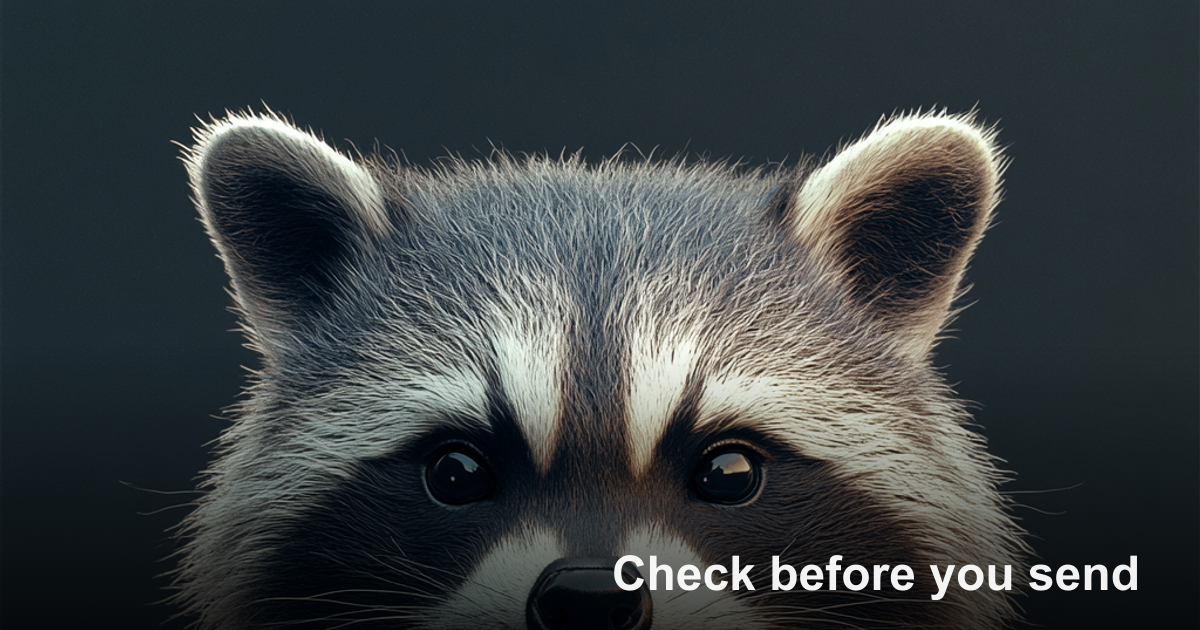
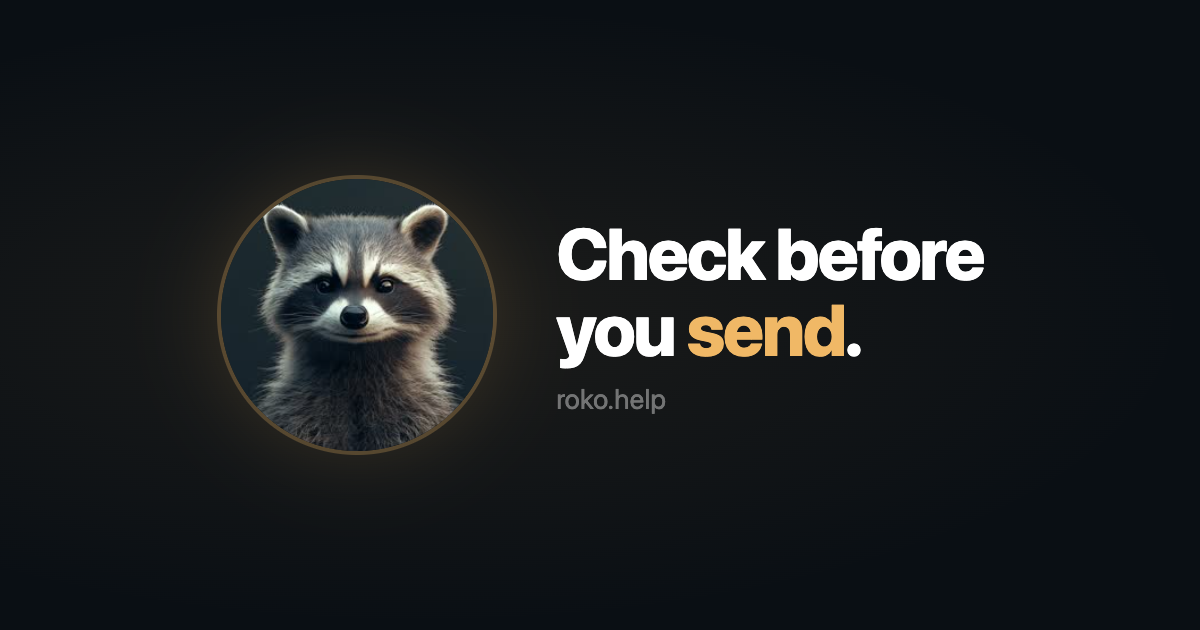
Human-friendly copy, quest as standalone page, OG image, check counter
- Rewrite all copy for regular people (not crypto jargon) in EN/RU/ES
- Quest button links to quest.html instead of opening modal
- Quest: explain real scam patterns on start, add like + submit story on final
- OG image: raccoon + "Check before you send." + roko.help
- Add checks-done counter (localStorage)
- Simplify meta descriptions

diff --git a/public/index.html b/public/index.html
@@ -3,8 +3,8 @@
 <head>
   <meta charset="UTF-8">
   <meta name="viewport" content="width=device-width, initial-scale=1.0">
-  <title>Roko – Crypto Exchange Trust Index | Check before you send</title>
-  <meta name="description" content="Free crypto exchange safety checker. Paste any link, wallet, or @handle – get a risk score in seconds. Scam database, OFAC sanctions, phishing detection, AI site analysis. Open source.">
+  <title>Roko – Check before you send</title>
+  <meta name="description" content="Got a sketchy crypto link? Paste it here – Roko tells you if it's safe or a scam. Checks sites, wallets, Telegram profiles. Free. 3 seconds.">
   <meta name="keywords" content="crypto exchange checker, exchanger safety, crypto scam check, OFAC sanctions check, wallet verification, blockchain trust score, P2P safety, OTC exchange review, crypto fraud prevention">
   <meta name="author" content="Roko">
   <meta name="robots" content="index, follow">
@@ -13,8 +13,8 @@
   <!-- Open Graph -->
   <meta property="og:type" content="website">
   <meta property="og:url" content="https://roko.help/">
-  <meta property="og:title" content="Roko – Is that exchanger safe?">
-  <meta property="og:description" content="Paste any link or wallet – know if it's safe in seconds. Scam database, sanctions, phishing detection, AI analysis. Free & open source.">
+  <meta property="og:title" content="Roko – Check before you send">
+  <meta property="og:description" content="Got a sketchy crypto link? Paste it – Roko tells you if it's safe. Free. 3 seconds.">
   <meta property="og:image" content="https://roko.help/og.png?v=2">
   <meta property="og:image:width" content="1200">
   <meta property="og:image:height" content="630">
@@ -380,13 +380,13 @@
         <span data-i18n="cta_bot_d">Full check – site content AI scan, Telegram profiles, token permissions</span>
       </span>
     </a>
-    <button class="cta-card cta-quest" onclick="openModal('quest')">
+    <a class="cta-card cta-quest" href="quest.html" style="text-decoration:none">
       <span class="cta-icon">🎮</span>
       <span class="cta-text">
         <strong data-i18n="bl_quest">Scam quest</strong>
         <span data-i18n="cta_quest_d">Can you spot a scam? 7 real scenarios – test yourself</span>
       </span>
-    </button>
+    </a>
   </div>
 
   <!-- SECONDARY LINKS -->
@@ -403,6 +403,9 @@
     <a class="like-link" href="https://github.com/roko-help/roko" target="_blank" rel="noopener"><img src="https://img.shields.io/github/stars/roko-help/roko?style=flat&logo=github&label=Stars&color=333&labelColor=1a1a1a&logoColor=fff" alt="GitHub stars" style="height:20px;vertical-align:middle" onerror="this.outerHTML='★ GitHub'"></a>
     <a class="like-link" href="https://t.me/roko_help" target="_blank" rel="noopener">📢 Telegram</a>
   </div>
+
+  <!-- CHECK COUNTER -->
+  <p class="home-counter" id="checkCounter" style="font-size:.78rem;color:rgba(255,255,255,.25);margin-top:.8rem;display:none"></p>
 
   <!-- COPYRIGHT -->
   <p class="home-copy" id="homeCopy"></p>
@@ -493,19 +496,19 @@ var curLang='en';
 var T={
   en:{
     title:'Is that <span class="rot-word" id="rotWord">exchanger</span> <em>safe</em>?',
-    sub:'Paste a link or wallet address. Roko checks scam databases, sanctions lists, and site content – and tells you if it\'s safe. Free. In seconds.',
+    sub:'Got a sketchy link? Paste it here. Roko will tell you if it\'s safe or a scam. Free. 3 seconds.',
     p2p_cta:'Meeting a dealer in person?',
     ph:'website, @telegram_name, or wallet...',btn:'Check',try_label:'try:',
     bl_onb:'Got paid in crypto?',bl_tut:'Crypto 101',bl_guide:'Safety rules',bl_quest:'Scam quest',bl_feat:'How it works',bl_reg:'Rules & laws',bl_about:'About',bl_safety:'Safety tips',bl_learn:'Learn',
-    cta_bot_d:'Full check – site content AI scan, Telegram profiles, token permissions',
+    cta_bot_d:'Deeper check – scans what\'s actually on the site, checks Telegram profiles',
     cta_quest_d:'Can you spot a scam? 7 real scenarios – test yourself',
     copy:'Free, open-source service by <a href="https://farbey.xyz/" style="color:rgba(255,255,255,.35)">Peter</a> & <a href="https://romanselivan.com/" style="color:rgba(255,255,255,.35)">Roman</a> – for friends, and for you.',
     back:'← Back',another:'Check another',bot:'Full check in bot',
     ft_t:'What Roko digs up',
-    f1t:'Fake sites',f1d:'Domain age, WHOIS, SSL, brand mismatches',
-    f2t:'Sanctioned wallets',f2d:'OFAC, Tornado Cash, seized addresses',
-    f3t:'Token drain',f3d:'Dangerous permissions that let sites drain your wallet',
-    f4t:'Fresh wallets',f4d:'Balance, age, transaction patterns',
+    f1t:'Fake sites',f1d:'How old is the site? Is it copying a known brand?',
+    f2t:'Blacklisted wallets',f2d:'International sanctions, seized by police, known scammers',
+    f3t:'Wallet drain',f3d:'Sites that trick you into giving them access to your money',
+    f4t:'Suspicious wallets',f4d:'Empty wallet? Just created? No history? Red flag.',
     f5t:'Cash scams',f5d:'Shady dealers, fake exchanges, step-by-step safety',
     f6t:'24/7 monitoring',f6d:'Watchlist with instant alerts if anything changes',
     guide_t:'Safety rules',
@@ -519,7 +522,7 @@ var T={
     quest_t:'Scam Quest',
     disclaimer:'Roko provides information to help you make decisions but does not guarantee the safety of any transaction. Web check is basic – use @RokoHelpBot for a full scan.',
     report:'🚨 Report scam',
-    web_basic:'Want deeper analysis? @RokoHelpBot scans site content with AI and checks Telegram profiles.',
+    web_basic:'Want a deeper look? @RokoHelpBot reads the actual site and checks Telegram profiles too.',
     handle_g1:'Meet publicly – café, shopping mall',handle_g2:'Test with a small amount first',
     ck_low_act:'Very low activity',ck_txs:'transactions',ck_out_txs:'outgoing transactions',ck_transactions:'transactions',
     ck_days_old:'days old',ck_new_acct:'Account very new',ck_not_found:'Address not found – may be unused',
@@ -534,19 +537,19 @@ var T={
   },
   ru:{
     title:'Этот <span class="rot-word" id="rotWord">обменник</span> <em>надёжный</em>?',
-    sub:'Вставь ссылку или адрес кошелька – Roko проверит по базам скамеров, санкционным спискам и содержимому сайта. Бесплатно. За секунды.',
+    sub:'Скинули подозрительную ссылку? Вставь сюда. Roko скажет – безопасно или скам. Бесплатно. 3 секунды.',
     p2p_cta:'Встречаешься с менялой лично?',
     ph:'сайт, @telegram_name или кошелёк...',btn:'Проверить',try_label:'попробуй:',
     bl_onb:'Получил крипту?',bl_tut:'Крипта 101',bl_guide:'Правила безопасности',bl_quest:'Квест',bl_feat:'Как работает',bl_reg:'Правила и законы',bl_about:'О проекте',bl_safety:'Безопасность',bl_learn:'Обучение',
-    cta_bot_d:'Полная проверка – AI-скан содержимого сайта, Telegram-профили, разрешения токенов',
+    cta_bot_d:'Глубже – сканирует содержимое сайта, проверяет Telegram-профили',
     cta_quest_d:'Распознаешь скам? 7 реальных сценариев – проверь себя',
     copy:'Бесплатный open-source сервис от <a href="https://farbey.xyz/" style="color:rgba(255,255,255,.35)">Питера</a> и <a href="https://romanselivan.com/" style="color:rgba(255,255,255,.35)">Романа</a> – для друзей и для тебя.',
     back:'← Назад',another:'Проверить ещё',bot:'Полная проверка в боте',
     ft_t:'Что находит Roko',
-    f1t:'Фейковые сайты',f1d:'Возраст домена, WHOIS, SSL, бренд',
-    f2t:'Санкционные кошельки',f2d:'OFAC, Tornado Cash, арестованные адреса',
-    f3t:'Слив через разрешения',f3d:'Опасные разрешения, которые позволяют сайту опустошить кошелёк',
-    f4t:'Свежие кошельки',f4d:'Баланс, возраст, паттерны транзакций',
+    f1t:'Фейковые сайты',f1d:'Сколько сайту лет? Не копирует ли он известный бренд?',
+    f2t:'Чёрные списки',f2d:'Международные санкции, арестованные полицией, известные мошенники',
+    f3t:'Слив кошелька',f3d:'Сайты, которые обманом получают доступ к твоим деньгам',
+    f4t:'Подозрительные кошельки',f4d:'Пустой? Только создан? Нет истории? Красный флаг.',
     f5t:'Скам при обмене на кэш',f5d:'Мутные менялы, фейковые обменники, пошаговая безопасность',
     f6t:'Мониторинг 24/7',f6d:'Следим и предупреждаем, если что-то изменится',
     guide_t:'Правила безопасности',
@@ -560,7 +563,7 @@ var T={
     quest_t:'Квест: тебя пытаются обмануть',
     disclaimer:'Roko предоставляет информацию для принятия решений, но не гарантирует безопасность сделки. Веб-проверка базовая – для полной используйте @RokoHelpBot.',
     report:'🚨 Сообщить о скаме',
-    web_basic:'Хочешь глубже? @RokoHelpBot сканирует содержимое сайта через AI и проверяет Telegram-профили.',
+    web_basic:'Хочешь глубже? @RokoHelpBot читает содержимое сайта и проверяет Telegram-профили.',
     handle_g1:'Встречайся в людном месте – кафе, ТЦ',handle_g2:'Сначала проверь на маленькой сумме',
     ck_low_act:'Очень низкая активность',ck_txs:'транзакций',ck_out_txs:'исходящих транзакций',ck_transactions:'транзакций',
     ck_days_old:'дней',ck_new_acct:'Аккаунт очень новый',ck_not_found:'Адрес не найден – возможно не использовался',
@@ -575,19 +578,19 @@ var T={
   },
   es:{
     title:'¿Es <em>seguro</em> ese <span class="rot-word" id="rotWord">exchanger</span>?',
-    sub:'Pega un enlace o dirección de wallet. Roko verifica bases de estafas, listas de sanciones y contenido del sitio. Gratis. En segundos.',
+    sub:'¿Te enviaron un enlace sospechoso? Pégalo aquí. Roko te dice si es seguro o una estafa. Gratis. 3 segundos.',
     p2p_cta:'¿Vas a reunirte con un dealer?',
     ph:'sitio web, @telegram_name o wallet...',btn:'Verificar',try_label:'prueba:',
     bl_onb:'¿Te pagaron en crypto?',bl_tut:'Cripto 101',bl_guide:'Reglas de seguridad',bl_quest:'Quest',bl_feat:'Cómo funciona',bl_reg:'Reglas y leyes',bl_about:'Sobre nosotros',bl_safety:'Seguridad',bl_learn:'Aprende',
-    cta_bot_d:'Verificación completa – escaneo AI del sitio, perfiles Telegram, permisos de tokens',
+    cta_bot_d:'Más profundo – escanea el contenido real del sitio, verifica perfiles de Telegram',
     cta_quest_d:'¿Puedes detectar una estafa? 7 escenarios reales – ponte a prueba',
     copy:'Servicio gratuito y open-source de <a href="https://farbey.xyz/" style="color:rgba(255,255,255,.35)">Peter</a> y <a href="https://romanselivan.com/" style="color:rgba(255,255,255,.35)">Roman</a> – para amigos, y para ti.',
     back:'← Atrás',another:'Verificar otro',bot:'Verificación completa en bot',
     ft_t:'Qué encuentra Roko',
-    f1t:'Sitios falsos',f1d:'Antigüedad, WHOIS, SSL, marca',
-    f2t:'Wallets sancionadas',f2d:'OFAC, Tornado Cash, direcciones incautadas',
-    f3t:'Robo por permisos',f3d:'Permisos peligrosos que permiten vaciar tu wallet',
-    f4t:'Wallets nuevas',f4d:'Balance, antigüedad, patrones',
+    f1t:'Sitios falsos',f1d:'¿Cuántos años tiene? ¿Está copiando una marca conocida?',
+    f2t:'Listas negras',f2d:'Sanciones internacionales, incautados por la policía, estafadores conocidos',
+    f3t:'Robo de wallet',f3d:'Sitios que te engañan para acceder a tu dinero',
+    f4t:'Wallets sospechosas',f4d:'¿Vacía? ¿Recién creada? ¿Sin historial? Bandera roja.',
     f5t:'Estafas con efectivo',f5d:'Dealers turbios, exchanges falsos, guía paso a paso',
     f6t:'Monitoreo 24/7',f6d:'Alertas instantáneas si algo cambia',
     guide_t:'Reglas de seguridad',
@@ -601,7 +604,7 @@ var T={
     quest_t:'Quest: intentan estafarte',
     disclaimer:'Roko proporciona información para tomar decisiones, pero no garantiza la seguridad de ninguna transacción. Verificación web es básica – usa @RokoHelpBot para escaneo completo.',
     report:'🚨 Reportar estafa',
-    web_basic:'¿Quieres más profundidad? @RokoHelpBot escanea el contenido del sitio con AI y verifica perfiles de Telegram.',
+    web_basic:'¿Quieres ir más a fondo? @RokoHelpBot lee el contenido del sitio y verifica perfiles de Telegram.',
     handle_g1:'Reúnete en un lugar público – café, centro comercial',handle_g2:'Prueba primero con un monto pequeño',
     ck_low_act:'Actividad muy baja',ck_txs:'transacciones',ck_out_txs:'transacciones salientes',ck_transactions:'transacciones',
     ck_days_old:'días',ck_new_acct:'Cuenta muy nueva',ck_not_found:'Dirección no encontrada – puede no haberse usado',
@@ -1476,7 +1479,7 @@ async function runCheck(){
   const btn=document.getElementById('checkBtn');btn.disabled=true;btn.innerHTML='<span class="spinner"></span>';
   showScreen('resultScreen');
   document.getElementById('resultCard').innerHTML=`<div class="result-body"><div style="text-align:center;padding:3rem"><span class="spinner"></span><p style="margin-top:1rem;color:rgba(255,255,255,.5)">${tr('checking')}</p></div></div>`;
-  try{let t=input.trim();if(!detectAddr(t))t=t.replace(/^https?:\/\//,'').replace(/\/.*$/,'').toLowerCase();const data=detectAddr(input.trim())?await checkChain(input.trim()):await checkDomain(t);history.pushState({screen:'result',q:input},'','?q='+encodeURIComponent(input));renderResult(t,data)}catch(e){document.getElementById('resultCard').innerHTML=`<div class="result-body"><button class="back-btn" onclick="goHome()">${tr('back')}</button><div style="color:#f87171;padding:1rem;text-align:center">Error: ${esc(e.message)}</div></div>`}
+  try{let t=input.trim();if(!detectAddr(t))t=t.replace(/^https?:\/\//,'').replace(/\/.*$/,'').toLowerCase();const data=detectAddr(input.trim())?await checkChain(input.trim()):await checkDomain(t);history.pushState({screen:'result',q:input},'','?q='+encodeURIComponent(input));renderResult(t,data);try{const n=parseInt(localStorage.getItem('roko_checks')||'0')+1;localStorage.setItem('roko_checks',n);updateCheckCounter()}catch{}}catch(e){document.getElementById('resultCard').innerHTML=`<div class="result-body"><button class="back-btn" onclick="goHome()">${tr('back')}</button><div style="color:#f87171;padding:1rem;text-align:center">Error: ${esc(e.message)}</div></div>`}
   btn.disabled=false;btn.textContent=tr('btn');
 }
 document.getElementById('q').addEventListener('keydown',e=>{if(e.key==='Enter')runCheck()});
@@ -1605,6 +1608,20 @@ function toggleLike(){
   try{localStorage.setItem('roko_liked','1')}catch{}
   renderLike();
 }
+
+// Check counter
+function updateCheckCounter(){
+  try{
+    const n=parseInt(localStorage.getItem('roko_checks')||'0');
+    const el=document.getElementById('checkCounter');
+    if(n>0&&el){
+      const label={en:'checks done',ru:'проверок сделано',es:'verificaciones hechas'}[curLang]||'checks done';
+      el.textContent=n+' '+label;
+      el.style.display='block';
+    }
+  }catch{}
+}
+updateCheckCounter();
 </script>
 </body>
 </html>

diff --git a/public/quest.html b/public/quest.html
@@ -412,7 +412,7 @@
 // ============================================================
 const UI = {
   en: {
-    sub: '7 real crypto scam scenarios. Can you spot them?',
+    sub: '7 scenarios based on real scam patterns. People lost real money to these. Can you spot them?',
     start: 'Start',
     title: 'Scam Quest',
     scenario: 'Scenario',
@@ -424,13 +424,15 @@ const UI = {
     bad: 'Needs work. Scammers would trick you. Read the rules and try again!',
     share: 'Share result',
     again: 'Play again',
-    check: 'Check an exchanger',
+    check: 'Check a link or wallet',
     safety: 'Safety rules',
+    submit: 'Got scammed? Share your story',
+    like_q: 'Was this useful?',
     copied: 'Copied!',
     you: 'You',
   },
   ru: {
-    sub: '7 реальных сценариев крипто-скама. Распознаешь?',
+    sub: '7 сценариев на основе реальных схем мошенничества. Люди потеряли реальные деньги. Распознаешь?',
     start: 'Начать',
     title: 'Квест: Скам',
     scenario: 'Сценарий',
@@ -442,13 +444,15 @@ const UI = {
     bad: 'Нужно подучиться. Мошенники бы тебя обманули. Прочитай правила и попробуй снова!',
     share: 'Поделиться',
     again: 'Заново',
-    check: 'Проверить обменник',
+    check: 'Проверить ссылку или кошелёк',
     safety: 'Правила безопасности',
+    submit: 'Попался на скам? Расскажи историю',
+    like_q: 'Было полезно?',
     copied: 'Скопировано!',
     you: 'Ты',
   },
   es: {
-    sub: '7 escenarios reales de estafa crypto. ¿Puedes detectarlos?',
+    sub: '7 escenarios basados en patrones reales de estafa. Personas perdieron dinero real. ¿Puedes detectarlos?',
     start: 'Empezar',
     title: 'Scam Quest',
     scenario: 'Escenario',
@@ -460,8 +464,10 @@ const UI = {
     bad: 'Necesitas estudiar. Los estafadores te engañarían. Lee las reglas e inténtalo de nuevo.',
     share: 'Compartir',
     again: 'De nuevo',
-    check: 'Verificar exchanger',
+    check: 'Verificar enlace o wallet',
     safety: 'Reglas de seguridad',
+    submit: '¿Te estafaron? Cuenta tu historia',
+    like_q: '¿Te fue útil?',
     copied: '¡Copiado!',
     you: 'Tú',
   }
@@ -875,12 +881,18 @@ function renderFinal() {
     `<div class="dot ${r ? 'done' : 'fail'}"></div>`
   ).join('');
 
+  const liked = localStorage.getItem('roko_quest_liked') === '1';
   finalEl.innerHTML = `
     <div class="final">
       <div class="final-raccoon"><video src="raccoon.mp4" poster="raccoon-poster.jpg" muted playsinline loop autoplay></video></div>
       <div class="final-score ${cls}">${state.score}/${total}</div>
       <div class="progress" style="margin:1rem 0">${dotsHtml}</div>
       <div class="final-msg">${msg}</div>
+      <div style="font-size:.82rem;color:var(--text-dimmer);margin-bottom:.8rem">${tr('like_q')}</div>
+      <div style="display:flex;gap:.6rem;justify-content:center;margin-bottom:1.2rem">
+        <button id="questLikeBtn" onclick="questLike()" style="background:none;border:2px solid ${liked?'var(--danger)':'rgba(255,255,255,.15)'};border-radius:50%;width:44px;height:44px;font-size:1.3rem;cursor:pointer;transition:all .3s">${liked?'❤':'🤍'}</button>
+        <a href="https://t.me/roko_help" target="_blank" style="display:flex;align-items:center;justify-content:center;background:none;border:2px solid rgba(255,255,255,.15);border-radius:50%;width:44px;height:44px;font-size:1.2rem;text-decoration:none;transition:all .3s">📢</a>
+      </div>
       <div class="final-btns">
         <button class="final-btn primary" onclick="shareResult()">
           ${tr('share')}
@@ -891,12 +903,18 @@ function renderFinal() {
         <a class="final-btn ghost" href="https://roko.help">
           ${tr('check')} \u2192
         </a>
-        <a class="final-btn ghost" href="https://roko.help" style="font-size:.82rem;color:var(--text-dimmer)">
-          ${tr('safety')} \u2192
+        <a class="final-btn ghost" href="https://github.com/roko-help/roko/issues/new?template=report-scam.yml" target="_blank" style="font-size:.82rem;color:var(--text-dimmer)">
+          ${tr('submit')} \u2192
         </a>
       </div>
     </div>
   `;
+}
+
+function questLike() {
+  localStorage.setItem('roko_quest_liked', '1');
+  const btn = document.getElementById('questLikeBtn');
+  if (btn) { btn.textContent = '❤'; btn.style.borderColor = 'var(--danger)'; btn.style.transform = 'scale(1.2)'; setTimeout(() => btn.style.transform = 'scale(1)', 300); }
 }
 
 function shareResult() {
